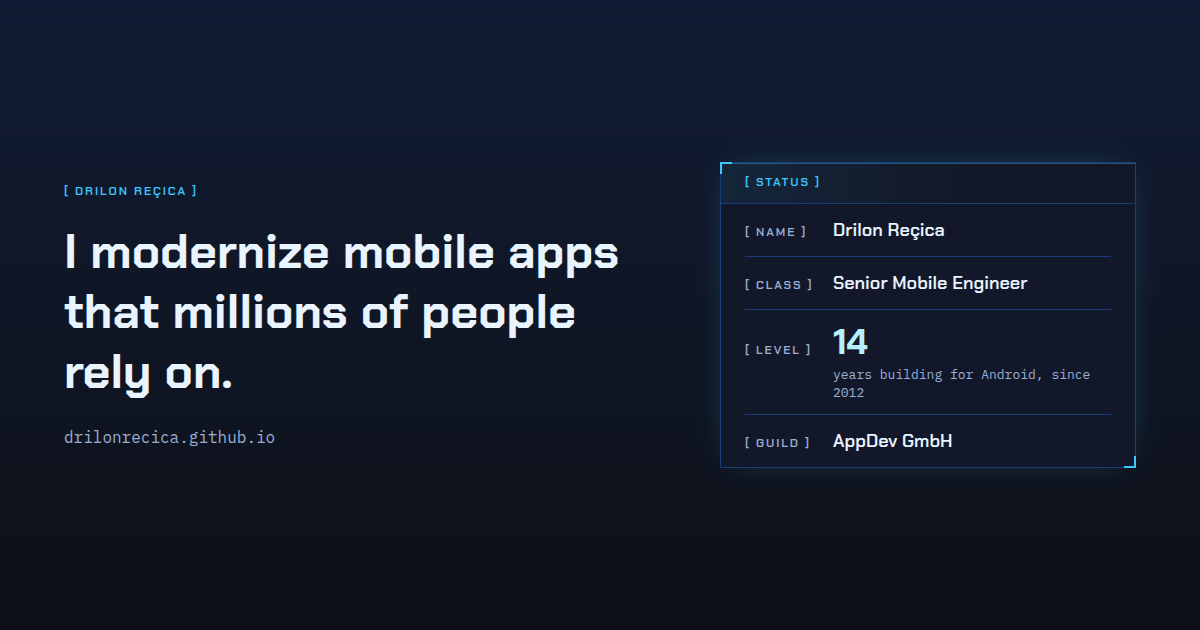
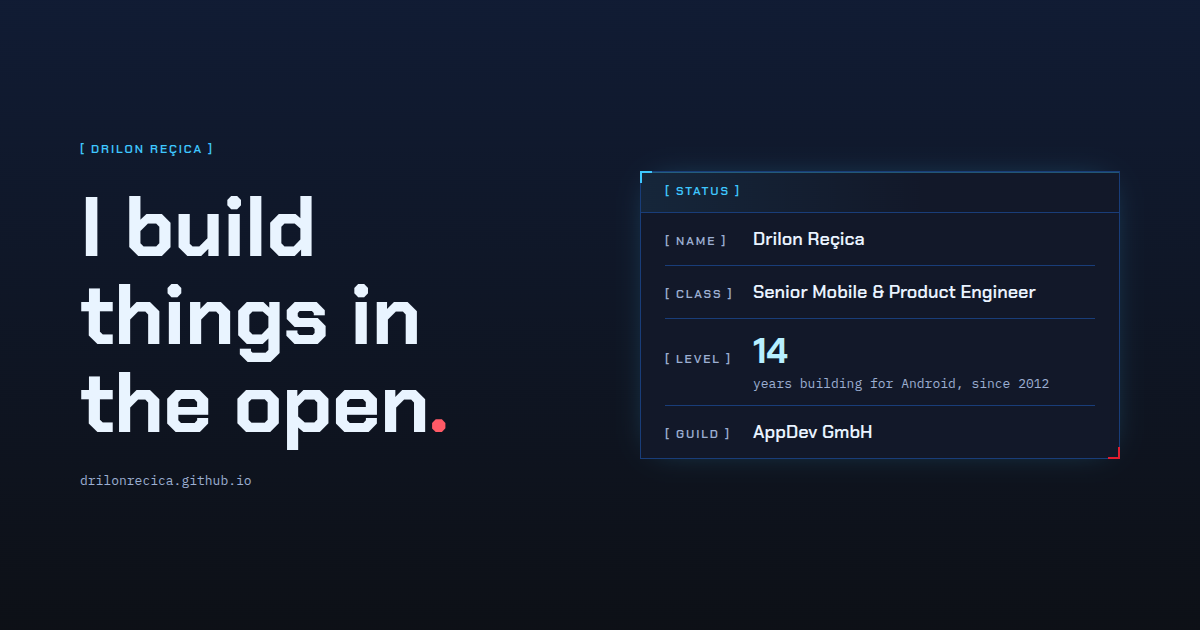
Update meta, social preview and docs for the builder site

diff --git a/README.md b/README.md
@@ -1,11 +1,11 @@
 # Drilon Reçica - Portfolio
 
-Personal site of a senior mobile engineer: a landing page, three case studies and a printable CV, styled as a dark Solo Leveling "System" interface.
+Builder and open-source home of Drilon Reçica: side projects, tools and one archived case study, styled as a dark Solo Leveling "System" interface. The professional profile, case studies and CV live at [recica.dev](https://recica.dev/); old `/cv` and case-study URLs here forward there.
 
 ## Tech Stack
 
--   **Framework**: [Astro](https://astro.build/) (v7) - static output, no UI framework. The only shipped JavaScript is Astro's view-transition router plus a few lines for the mobile menu and the CV print button.
--   **Content**: MDX content collection for case studies, typed data files for everything else.
+-   **Framework**: [Astro](https://astro.build/) (v7) - static output, no UI framework. The only shipped JavaScript is Astro's view-transition router plus a few lines for the mobile menu.
+-   **Content**: MDX content collection for the archived case study, typed data files for everything else.
 -   **Styling**: [Tailwind CSS](https://tailwindcss.com/) (v4) with design tokens as CSS custom properties; one dark "System" palette shared with igris.
 -   **Fonts**: Chakra Petch (self-hosted, OFL, in `public/fonts`) for headings and System labels; IBM Plex Mono via Fontsource; system sans for body text.
 -   **Deployment**: GitHub Actions + GitHub Pages.
@@ -15,24 +15,26 @@ Personal site of a senior mobile engineer: a landing page, three case studies an
 ```bash
 /src
   /assets            # Images processed by Astro (portrait)
-  /components        # Nav, SystemWindow, StatusWindow, SystemFooter, Timeline, WorkCard, Figure, Icon
+  /components        # Nav, SystemWindow, StatusWindow, SystemFooter, WorkCard, Figure, Icon
     /diagrams        # Inline SVG diagrams (case studies)
   /content/work      # Case studies (MDX)
   /data
-    profile.ts       # Name, headline, bio, links, proof facts, education
+    profile.ts       # Name, headline, intro, summary, links
     experience.ts    # Current employer (status window and structured data)
     work.ts          # Case-study query (drafts are dev-only)
   /layouts
     Layout.astro     # HTML shell, SEO, JSON-LD
   /pages
     index.astro      # Home
-    work/[slug].astro
+    work/[slug].astro  # Archived case study (/work/security-library)
     cv.astro         # Redirect to recica.dev/cv/
+    work/deutsche-bahn.astro  # Redirect to recica.dev
+    work/qisara.astro         # Redirect to recica.dev
     404.astro
   /styles
-    global.css       # Tokens, base styles, components, diagram classes, print rules
+    global.css       # Tokens, base styles, components, diagram classes
   content.config.ts  # Schema for the work collection
-/public              # CV PDF, favicons, OG image, robots.txt
+/public              # Favicons, OG image, robots.txt
 /docs                # Design spec for the redesign
 ```
 
@@ -48,9 +50,10 @@ npm run build && npm test   # checks the built site, the token contrast and the 
 
 ## Updating Content
 
--   **Headline, bio, links, proof facts**: edit `src/data/profile.ts`.
+-   **Headline, intro, summary, links**: edit `src/data/profile.ts`.
+-   **Home sections**: the sections (hero, Shadow army, Quest log, Tools & labs, About, Contact) are in `src/pages/index.astro`; projects and tools are in `src/data/projects.ts`.
 -   **Case studies**: add or edit an `.mdx` file in `src/content/work/`. Set `draft: true` to keep one out of production builds while you write; drafts still show in `npm run dev`.
--   **OG image**: replace `public/og-image.png` (1200x630).
+-   **OG image**: replace `public/og-image.png` (1200x630). It shows the headline and the Status window.
 
 ## Deployment
 

diff --git a/docs/superpowers/specs/2026-10-08-solo-leveling-redesign-design.md b/docs/superpowers/specs/2026-10-08-solo-leveling-redesign-design.md
@@ -113,3 +113,12 @@ The audience is unchanged: clients and employers equally. Rules carried over: no
   - The `!` and a 3px left border on the alert title bars (`[ ! SYSTEM MESSAGE ]`, `[ ! GATE CLOSED ]`).
   - The 404 window as a red gate, with both corners and the glow in red.
 - **Never** a fill, and never on body text, quest marks, buttons or focus rings, where red would read as an error.
+
+## Site purpose after the split (2026-10-08)
+
+- **recica.dev** is the professional site: CV and case studies.
+- **drilonrecica.github.io** is the builder and open-source home: side projects, tools and one archived case study. Its home title is "Drilon Reçica | Open source & side projects".
+- The title is "Senior Mobile & Product Engineer" on both sites.
+- Old URLs (`/cv`, `/work/deutsche-bahn`, `/work/qisara`) forward to recica.dev.
+- Facts about roles and experience follow recica.dev. This site's structured data points at the Person entity `https://recica.dev/#drilon`.
+- The sections described above that belonged to the CV (stats, timeline, how I work, print styles) were removed from this site.
